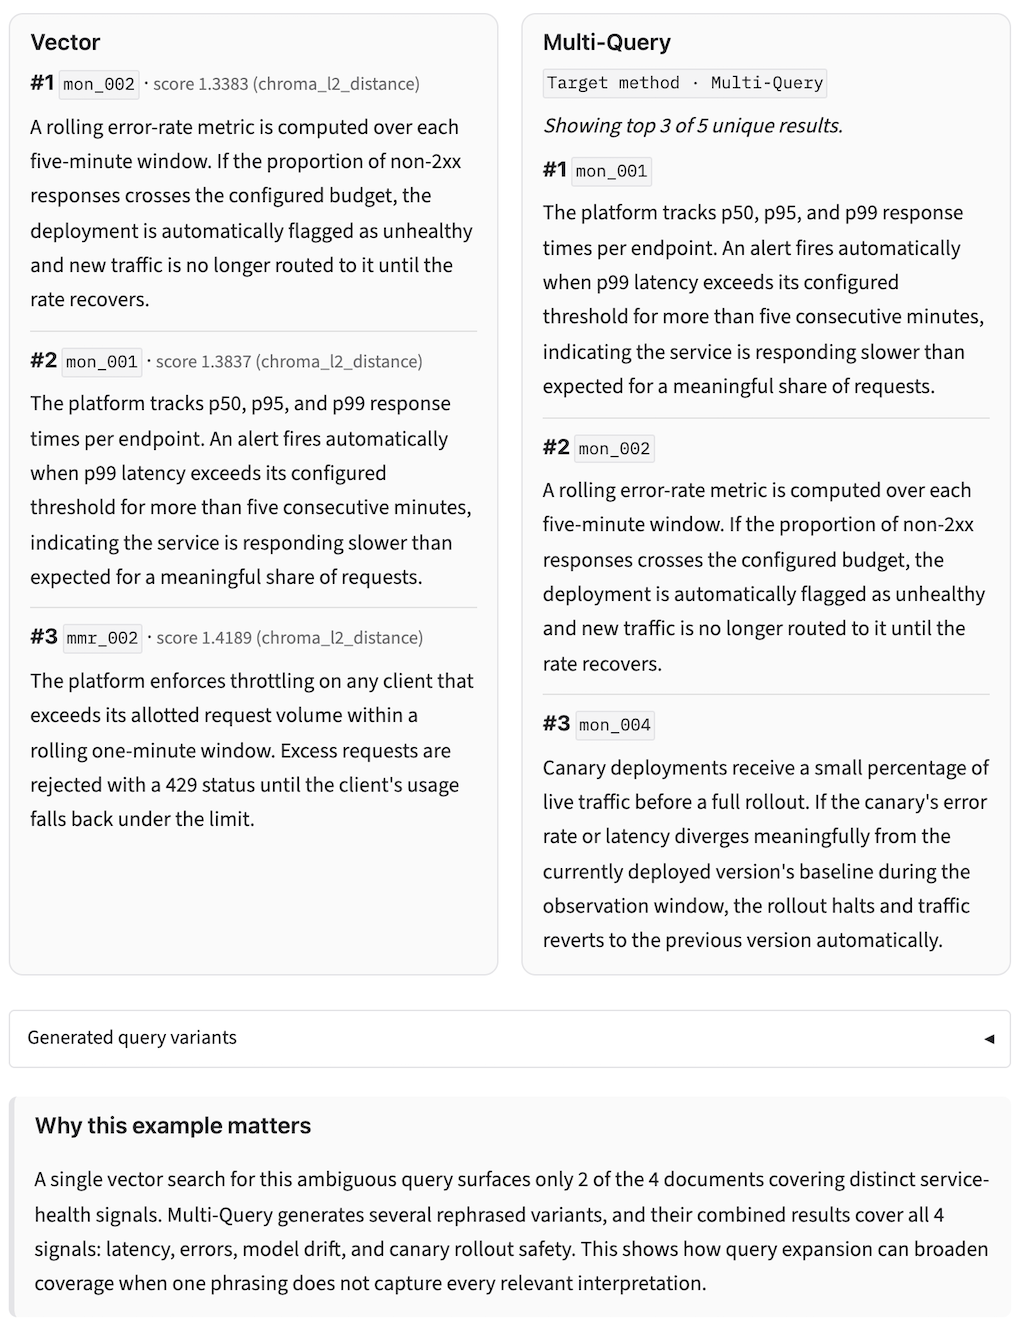
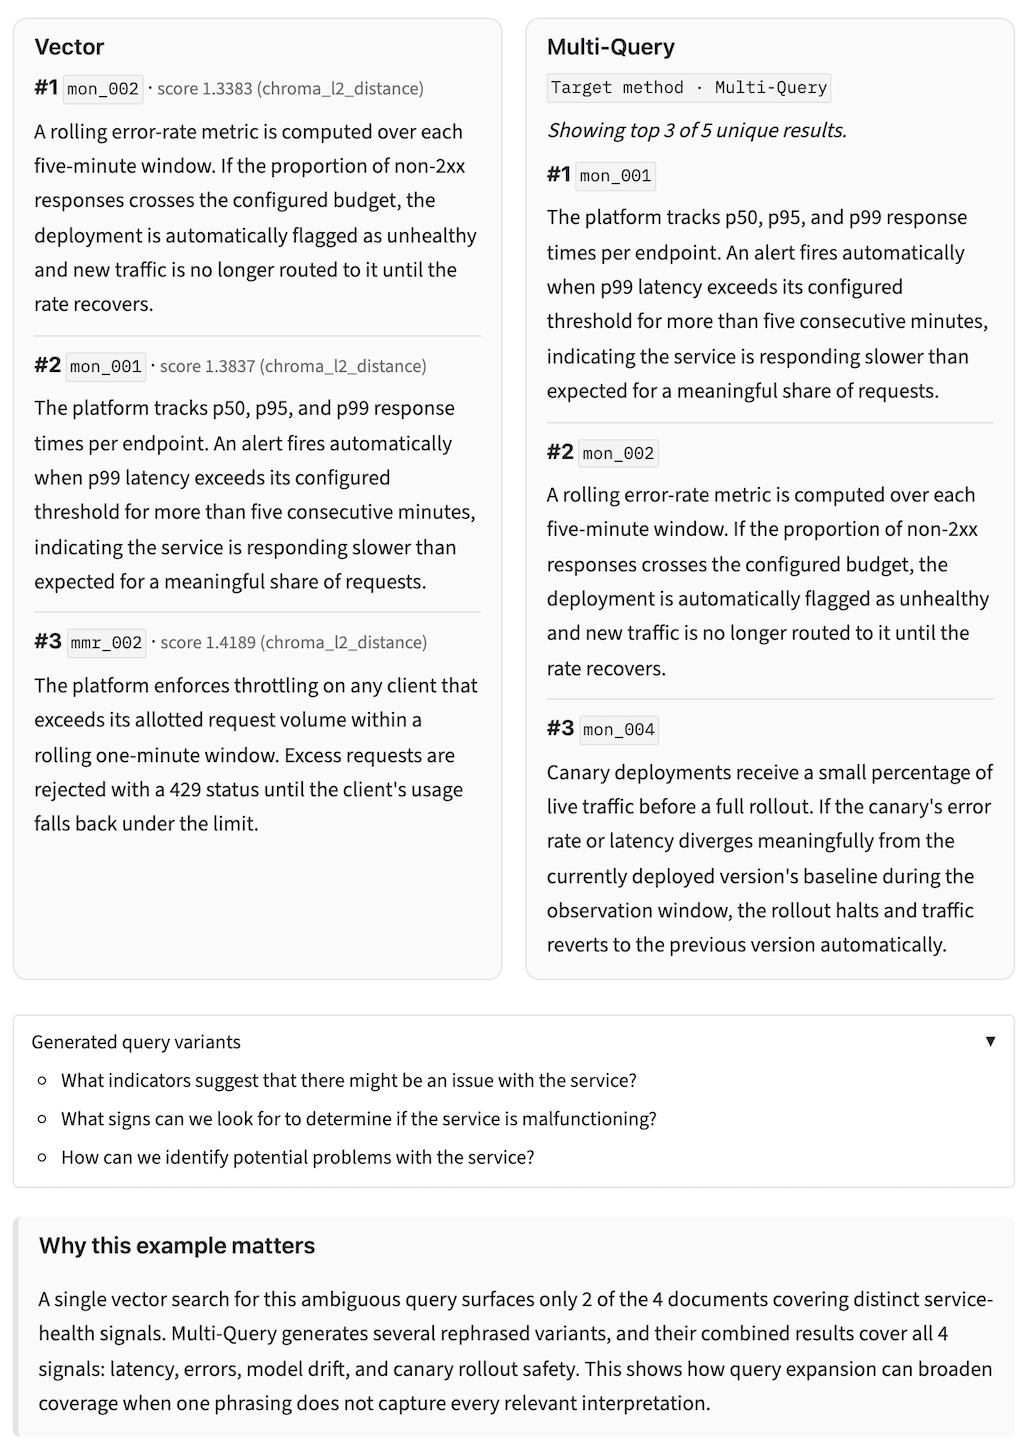
docs: retake Multi-Query and Parent-Child screenshots; add Parent-Child explanation image
- Parent-Child example is now the index-mapping question, shown as a result
  image plus a separate explanation image
- screenshot captions now name the question shown
- images embedded at fixed width with click-to-enlarge links

diff --git a/README.md b/README.md
@@ -3,24 +3,29 @@
 Retrieval is not one-size-fits-all. This project compares five retrieval strategies (BM25, vector search, Multi-Query, MMR, and Parent-Child) on a small hand-designed corpus. Each curated question is a controlled example that shows when a retrieval mechanism helps, when it does not, and why. It does not try to name a single "best" retriever. It retrieves and compares documents only; it does not generate answers.
 
 ## Screenshots
-Showcase: BM25 and Vector side by side for "What does the ef_construction parameter control?"
+**Question: BM25 and Vector side by side for "What does the ef_construction parameter control?"**
 <a href="docs/images/bm25-showcase.png">
   <img src="docs/images/bm25-showcase.png" width="830"
        alt="BM25 and Vector results for the ef_construction question">
 </a>
 
-Showcase: Vector's top 3 against the top 3 of the Multi-Query union (5 unique results).
+**Question: Vector's top 3 against the top 3 of the Multi-Query union (5 unique results).**
 <a href="docs/images/multi-query-showcase.png">
   <img src="docs/images/multi-query-showcase.png" width="830"
        alt="Vector and Multi-Query results for the service-health question">
 </a>
 
-Showcase: How does the platform avoid losing information when a sentence spans two chunks?\
-*Parent-Child: the resolved parent section on the left; the matched child chunks on the right, labeled as diagnostic.*
+**Question: How does the index map a retrieved segment back to the larger parent content it came from?**
+
 <a href="docs/images/parent-child.png">
   <img src="docs/images/parent-child.png" width="830"
-       alt="Parent-Child result with matched child chunks">
+       alt="Parent-Child result for the index-mapping question">
 </a>
+<a href="docs/images/parent-child-why.png">
+  <img src="docs/images/parent-child-why.png" width="830"
+       alt="Explanation of the Parent-Child index-mapping example">
+</a>
+
 
 
 ## What the project does
